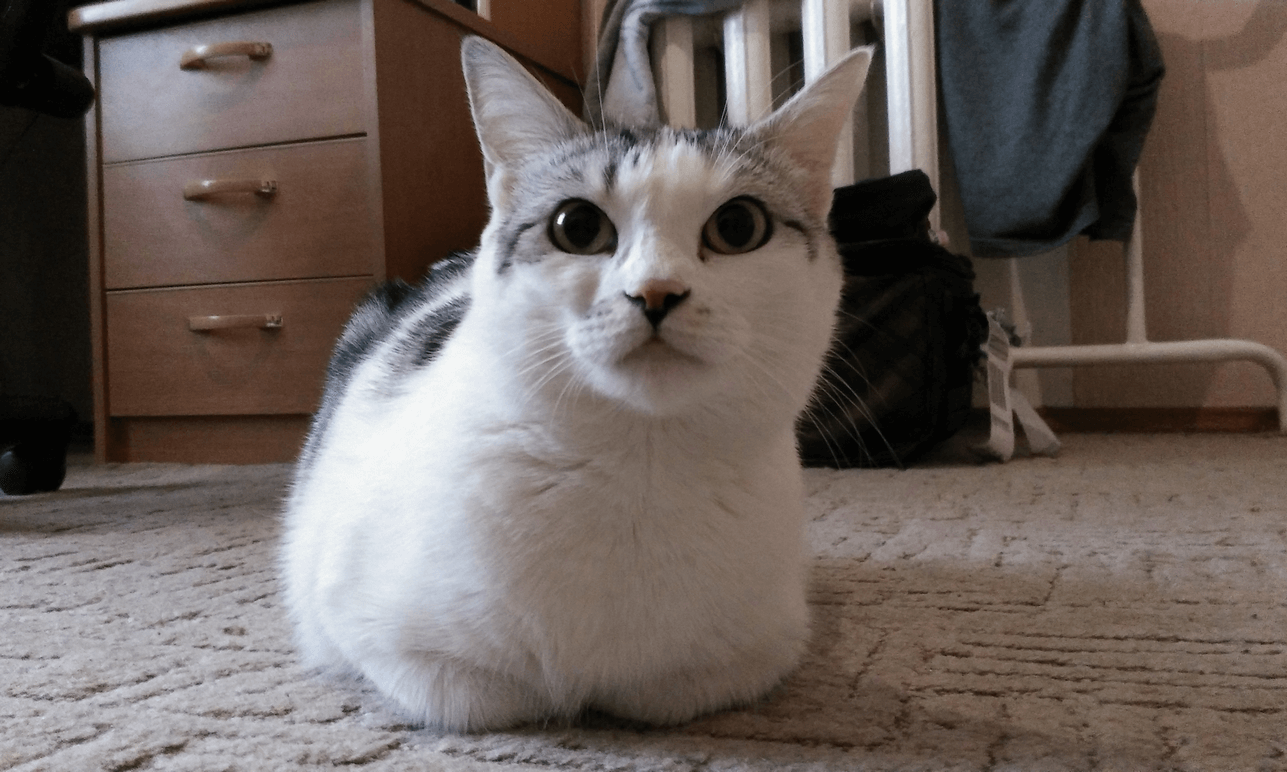
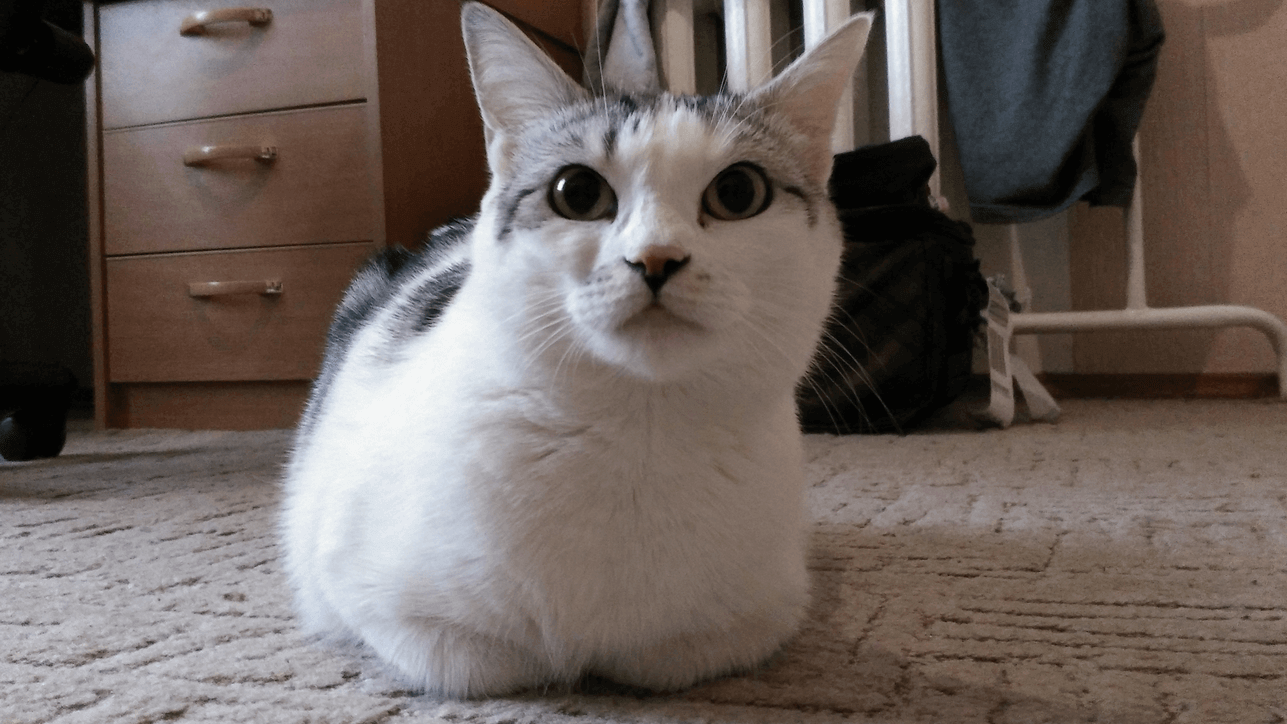
picture proportions changed, few css changes

diff --git a/src/components/Gallery.js b/src/components/Gallery.js
@@ -13,7 +13,7 @@ export default class Gallery extends React.Component {
 
   renderImage() {
     return (
-      <div className="row-container">
+      <div className="row-container" draggable="false">
           <img onClick={() => this.setViewImage("pic1.png")} src={"./pic1.png"} draggable="false" className="thumbnail" alt=""/>
           <img onClick={() => this.setViewImage("pic2.png")} src={"./pic2.png"} draggable="false" className="thumbnail" alt=""/>
           <img onClick={() => this.setViewImage("pic3.png")} src={"./pic3.png"} draggable="false" className="thumbnail" alt=""/>
@@ -33,7 +33,7 @@ export default class Gallery extends React.Component {
   render() {
     if (this.state.viewImage) {
       return (
-        <div className="viewContainer" onClick={() => this.setViewImage(null)}>
+        <div className="viewContainer" onClick={() => this.setViewImage(null)} draggable="false">
           <img src= {this.state.viewImage} draggable="false" className="viewImage" alt=""/>
           <div className="Text">PRESS AGAIN TO GO BACK</div>
         </div>

diff --git a/src/App.css b/src/App.css
@@ -470,7 +470,7 @@
     transform: translate(-50%, -50%);
     left: 50%;
     top: 50%;
-    width: 60%;
+    width: 65%;
     text-align: center;
   }
 
